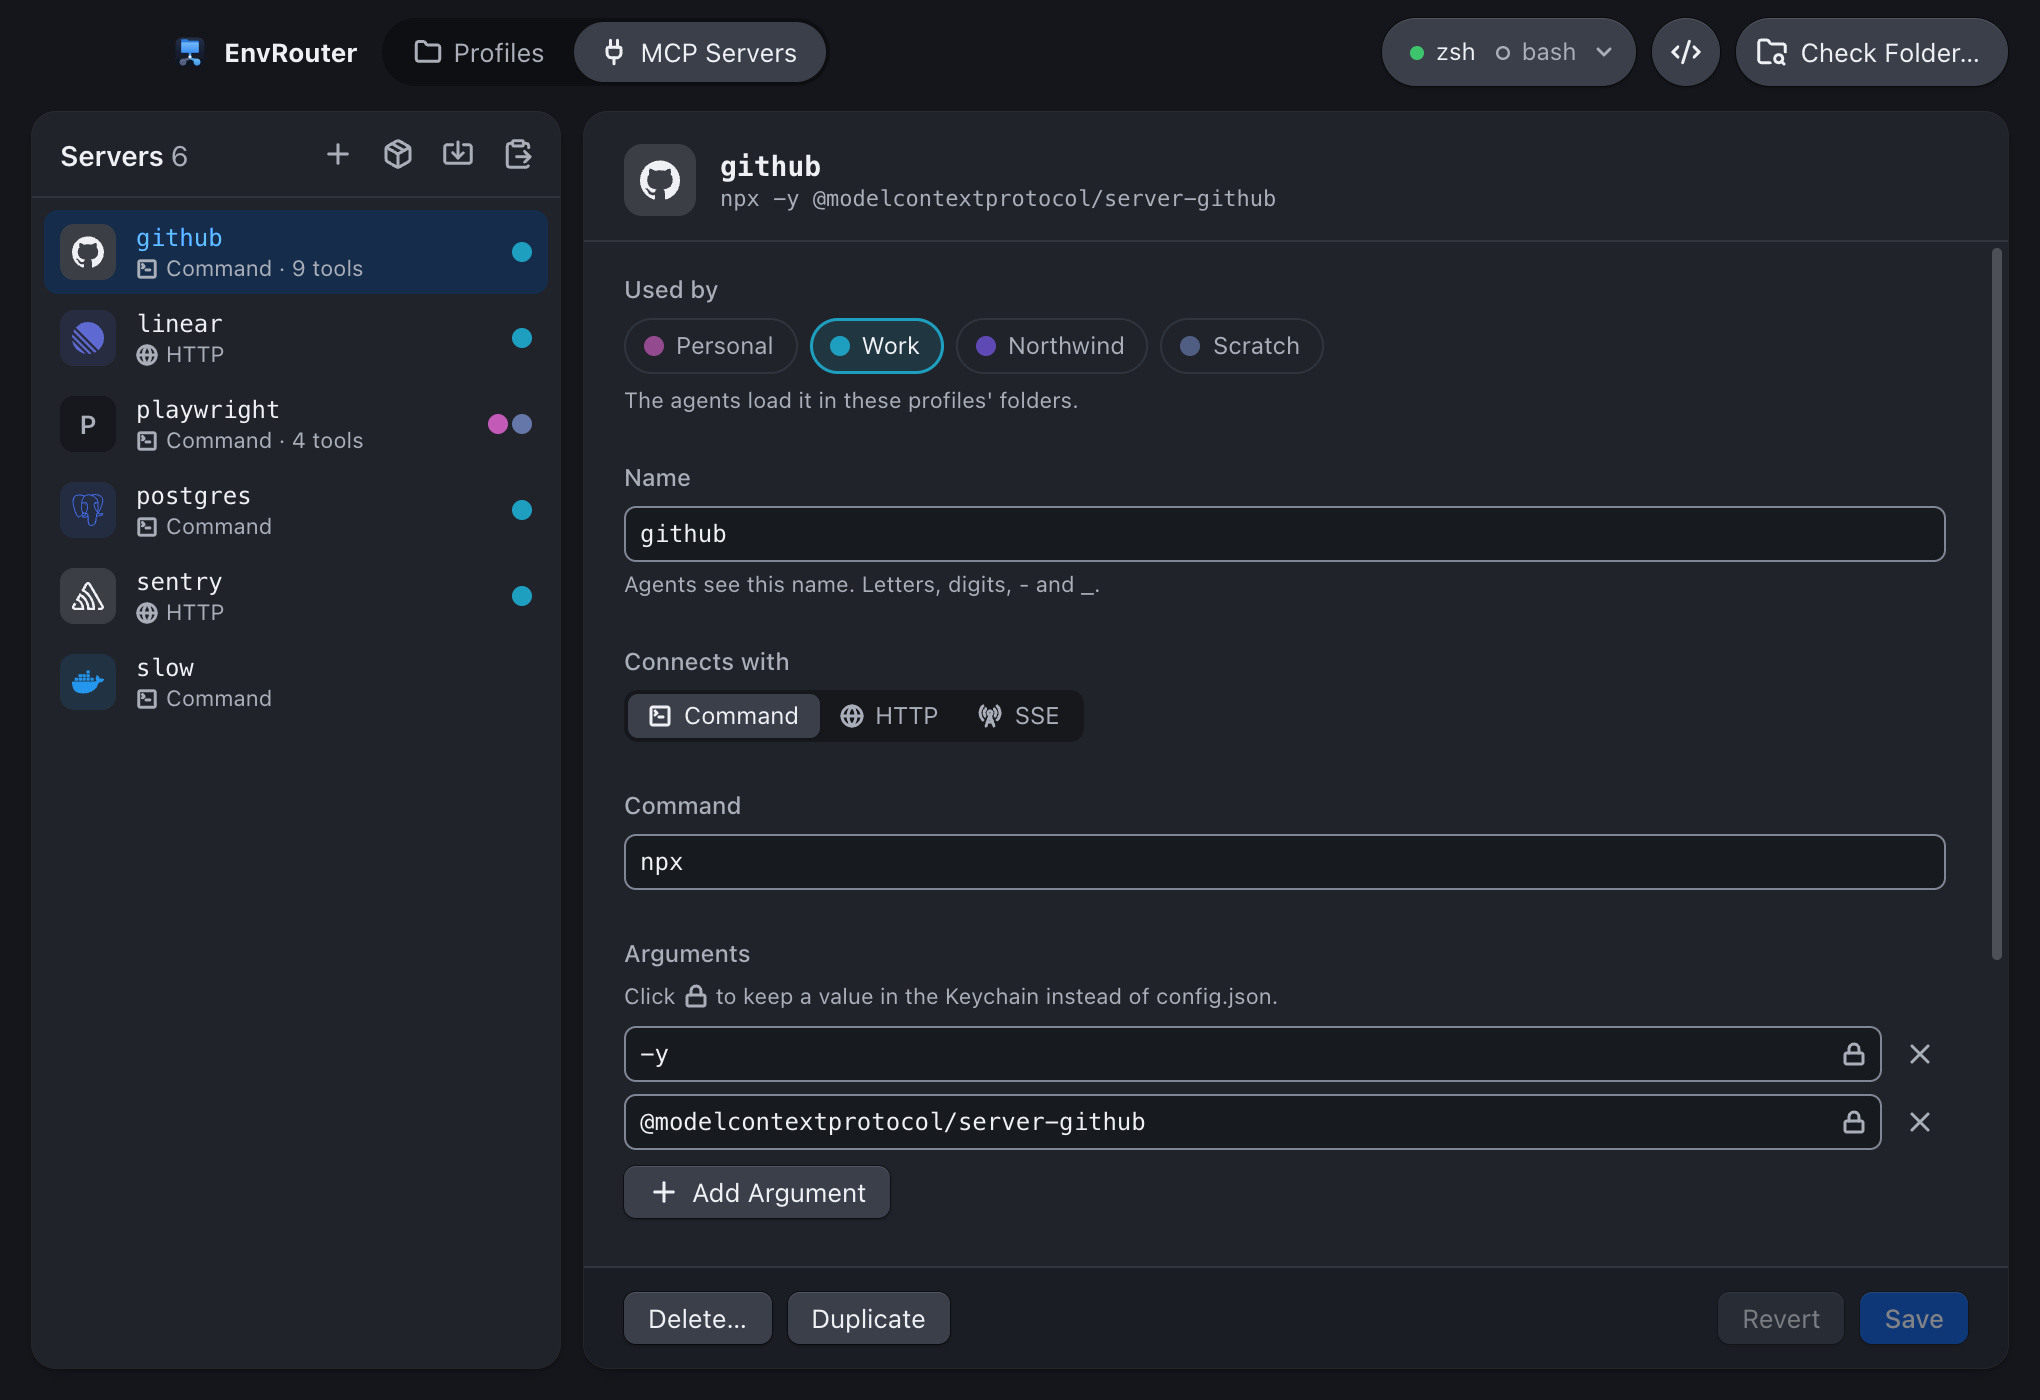
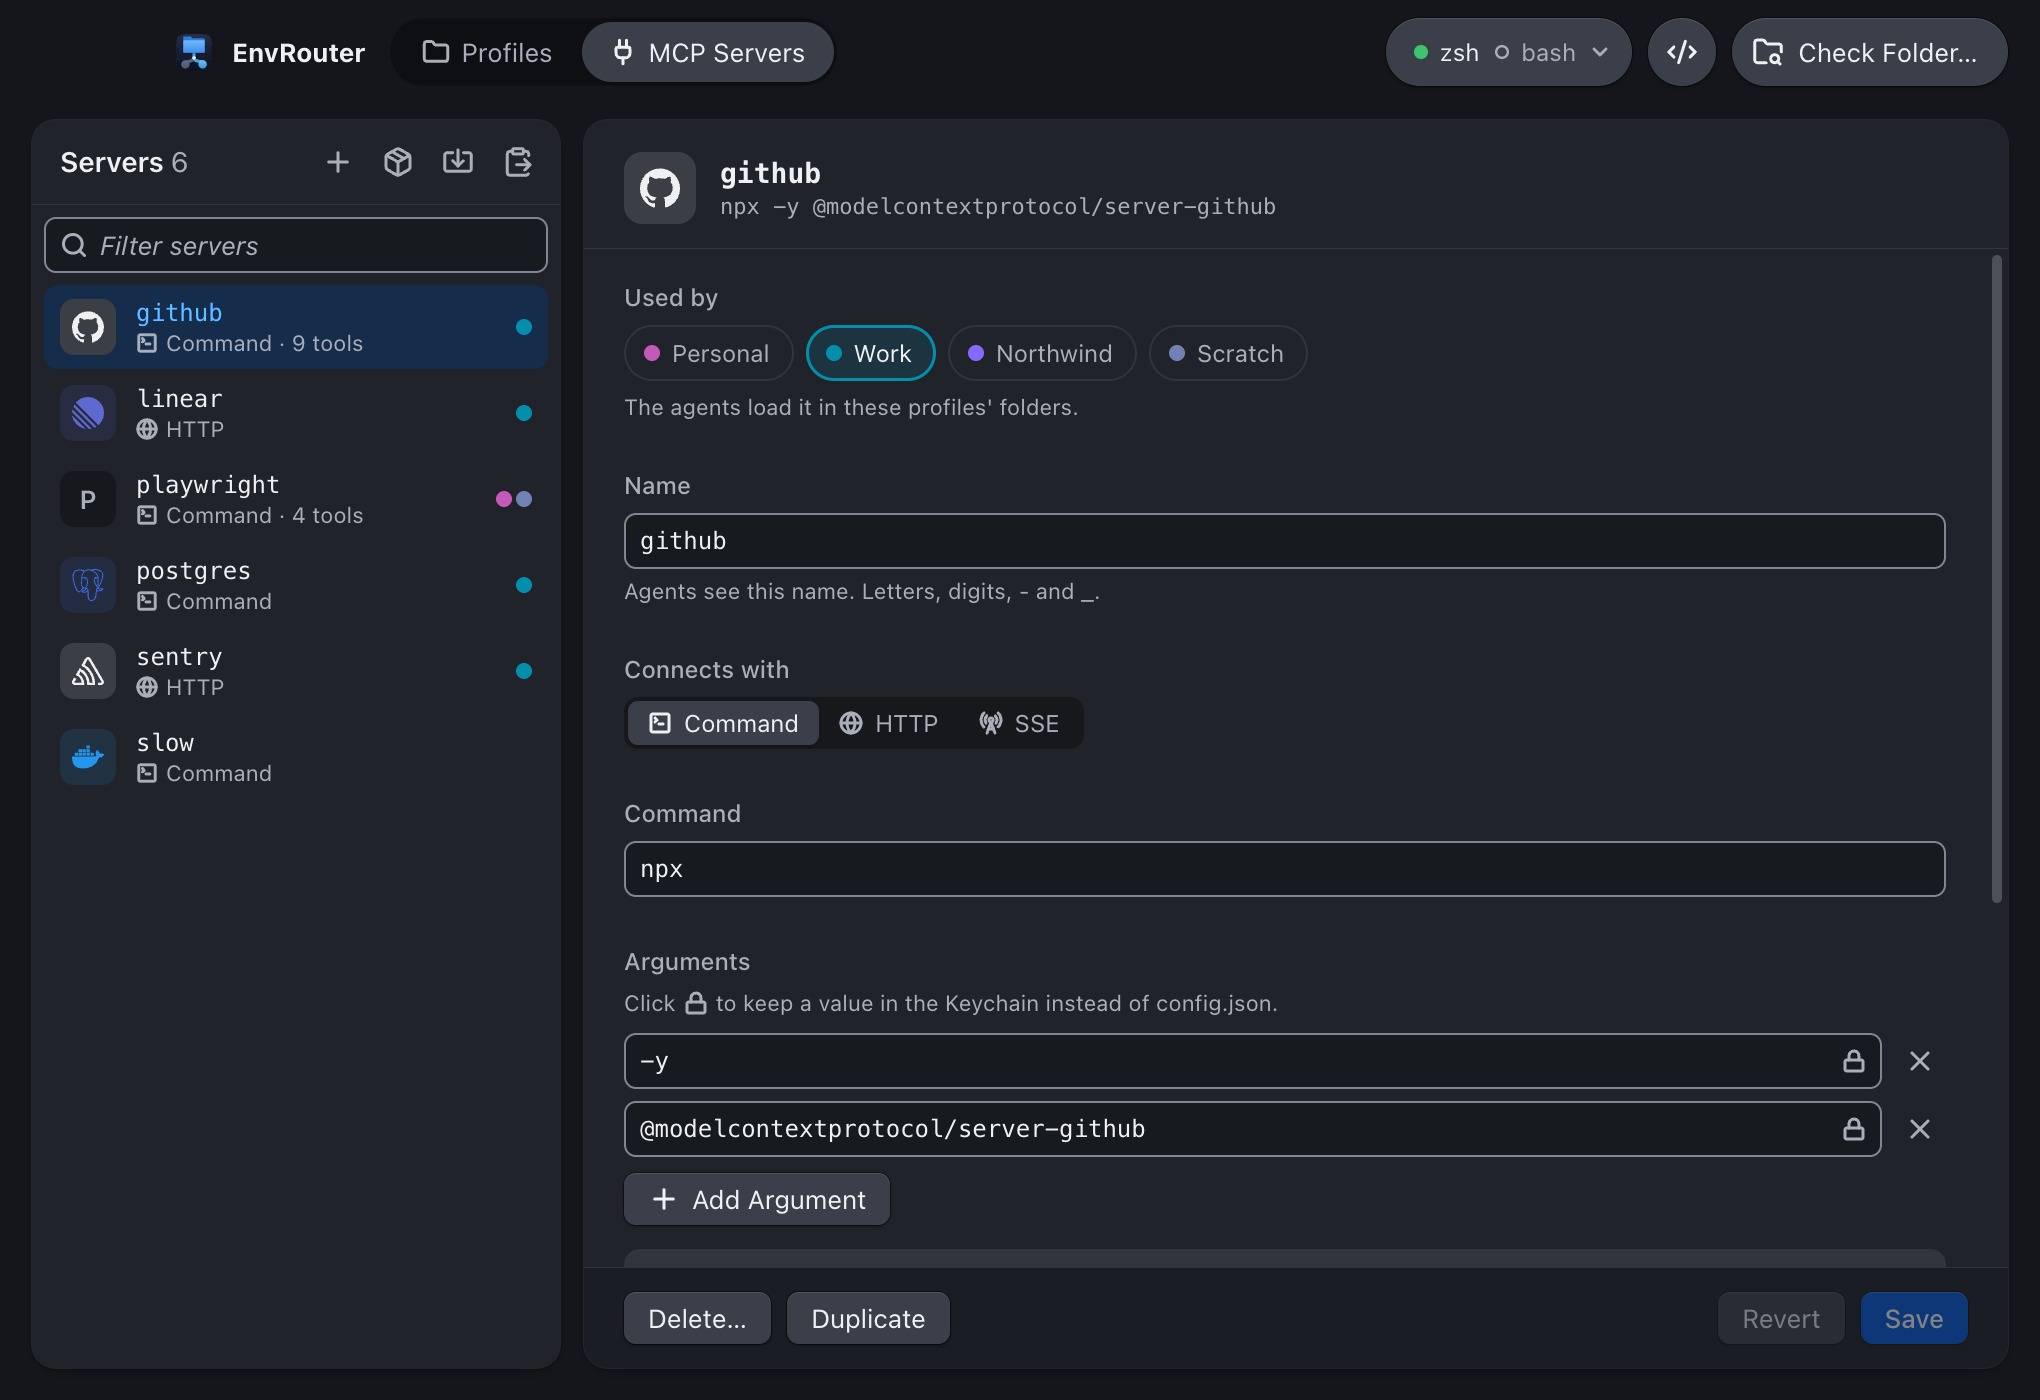
Record M3 as done in the roadmap, and retake the README's screenshots
The roadmap marks M3, Every state has a way out, done: each of its 16
issues with the PR that fixed it (#127 to #148), how each Done when was
met, the work beyond its issues (the flaky tests in #136, #138 and #144,
Text file busy in #141, the uninstall's app data in #143, the bundle
identifier in #147, bash 3.2 in #149, the cask's zap order in #150, and
the accessibility pass's fixes in #151), and what wasn't verified on a
real machine. It ships in 0.8.0; M4 is next.

The servers and check screenshots are retaken from the browser mock's
mcp scenario at 1020x700 (2x), since M3 changed the server list and the
folder check, and their alt text says what they now show.

diff --git a/docs/roadmap.md b/docs/roadmap.md
@@ -14,22 +14,22 @@ later findings at the end of their milestone, such as #107); M4 to M7 keep their
 until each is next. A new finding goes into its milestone here first, then into an issue. PRs
 are assigned to the milestone they advance.
 
-**Status (2026-10-24):** M0, M1 and M2 are done. M0's 12 issues were merged in PRs #55 to #66 and
+**Status (2026-10-25):** M0 to M3 are done. M0's 12 issues were merged in PRs #55 to #66 and
 M1's 13 in PRs #72 to #90; both shipped in 0.7.1 except M1's last four PRs (#87 to #90), which
 change only CI, the Homebrew templates and docs. M2's 15 issues were fixed in PRs #92 to #108,
-except #49, closed as accepted, and shipped in 0.7.2. M3 is next: its 16 issues were checked
-against `main` at 0.7.2 and filed on 2026-10-24.
+except #49, closed as accepted, and shipped in 0.7.2. M3's 16 issues were fixed in PRs #127 to
+#148, with #149 to #151 closing what its final checks found, and ship in 0.8.0. M4 is next.
 
 Order: M0 → M1 → M2 → M3 → M4 → M5 → M6 → M7. The first three are small and make the next
 release trustworthy. M4 (agents) is what brings users and can start as soon as M0 lands, since
-it's mostly data and one new dialect. M7 can start after M3, which carries the Windows prep.
+it's mostly data and one new dialect. M7 can start now that M3, which carries the Windows prep, is done.
 
 | Milestone | Goal | Size |
 |---|---|---|
 | M0: Correctness floor (done) | Fix every verified bug that loses data, crosses profiles or blocks the tool | small |
 | M1: Release integrity (done) | A release can only ship what CI tested, and every shipped target is checked for advisories | small |
 | M2: Lean and fast (done) | Ship only what each platform needs, and keep the shim's overhead flat as configs grow | small |
-| M3: Every state has a way out | No dead ends in the window, no silent losses, and the files the app touches are one click away | medium |
+| M3: Every state has a way out (done) | No dead ends in the window, no silent losses, and the files the app touches are one click away | medium |
 | M4: More agents, moving ecosystem | Add agents as data, starting with Codex, and keep the MCP side current with the spec and the registry | medium |
 | M5: Headless parity | Everything the window does, the CLI and rpc do too, with tests | medium |
 | M6: Update and reach | Users get new versions without a manual reinstall, on every Mac and Linux channel we ship | medium |
@@ -329,6 +329,30 @@ Measured on v0.6.0 (M-series Mac, 2026-10-23):
 ---
 
 ## M3: Every state has a way out
+
+**Status:** done 2026-10-25. All 16 issues below were fixed and merged: #111 (#127), #112 (#128),
+#114 (#129), #113 (#130), #118 (#131), #123 (#132), #124 (#133), #115 (#134), #117 (#135),
+#116 (#137), #119 (#139), #122 (#140), #107 (#142), #125 (#145), #121 (#146) and #120 (#148).
+Against the Done when: the health state machine and the one-accent rule are in `lib/health.ts`
+with tests, and the window is tested as a user drives it in happy-dom (#111, #112); every
+verdict, banner and error has an action besides Dismiss (#115); `envrouter uninstall` and
+**Uninstall EnvRouter…** turn off shells and editors, delete the secret item and `~/.envrouter`,
+and the app's own data folders (#117, #143); Reveal for `config.json`, `~/.envrouter`, the MCP
+folders and trigger folders is reachable by keyboard, through the backend, with no opener
+permission left in the window (#116, #120); the browser mock covers each new state; and a
+whole-app accessibility pass on the mock, against WCAG 2.2 AA, found no failures once its
+findings were fixed (#151). Issue 15 changed in the doing: the help links open from Rust by
+name, so no `opener:allow-open-url` grant was needed.
+
+Work beyond the issues: two test races, a lock held across a fork (#136) and a shim installed
+in-process then run (#138), and a focus effect that ran a task late (#144); the app writing
+executables through a child process, so no fork can make them "Text file busy" (#141); the
+uninstall removing the app's own data folders (#143); the bundle identifier changed to
+`ca.pixel-perfect.envrouter`, with the old one's data cleared on first launch (#147); and macOS
+`/bin/bash` (3.2) answering the installed-agents probe (#149), and the cask's `zap` list in the
+order `brew style` wants (#150). Not verified on a real
+machine: the built app's native menus and menu bar items, an upgrade from 0.7.2 under the new
+identifier, Windows outside Wine, and a real screen reader.
 
 **Goal:** no dead ends in the window, no silent losses, and the files the app touches are one
 click away. **Size:** medium.

diff --git a/README.md b/README.md
@@ -20,7 +20,7 @@
 <p align="center">
   <picture>
     <source media="(prefers-color-scheme: dark)" srcset="docs/images/check-dark.png" />
-    <img src="docs/images/check-light.png" width="860" alt="The Profiles view: one card per profile with its folders filed inside. A folder check at the bottom says ~/dev/work/api is routed to the Work profile, which sets CLAUDE_CONFIG_DIR to ~/.claude-work and adds the github, linear, postgres and sentry MCP servers." />
+    <img src="docs/images/check-light.png" width="860" alt="The Profiles view: one card per profile with its folders filed inside. A folder check at the bottom says ~/dev/work/api is routed to the Work profile, which sets CLAUDE_CONFIG_DIR to ~/.claude-work and adds the github, linear, postgres and sentry MCP servers, and the Work card highlights the folder under ~/dev/work." />
   </picture>
 </p>
 
@@ -70,7 +70,7 @@ selection of MCP servers from a library you keep in the app:
 <p align="center">
   <picture>
     <source media="(prefers-color-scheme: dark)" srcset="docs/images/servers-dark.png" />
-    <img src="docs/images/servers-light.png" width="860" alt="The MCP Servers view: a list of five MCP servers (github, linear, playwright, postgres, sentry) beside the editor for github, whose Used by toggles show it loads in the Work profile." />
+    <img src="docs/images/servers-light.png" width="860" alt="The MCP Servers view: a list of six MCP servers (github, linear, playwright, postgres, sentry, slow) under a filter field, beside the editor for github, whose Used by toggles show it loads in the Work profile, above its name, command and arguments." />
   </picture>
 </p>
 
